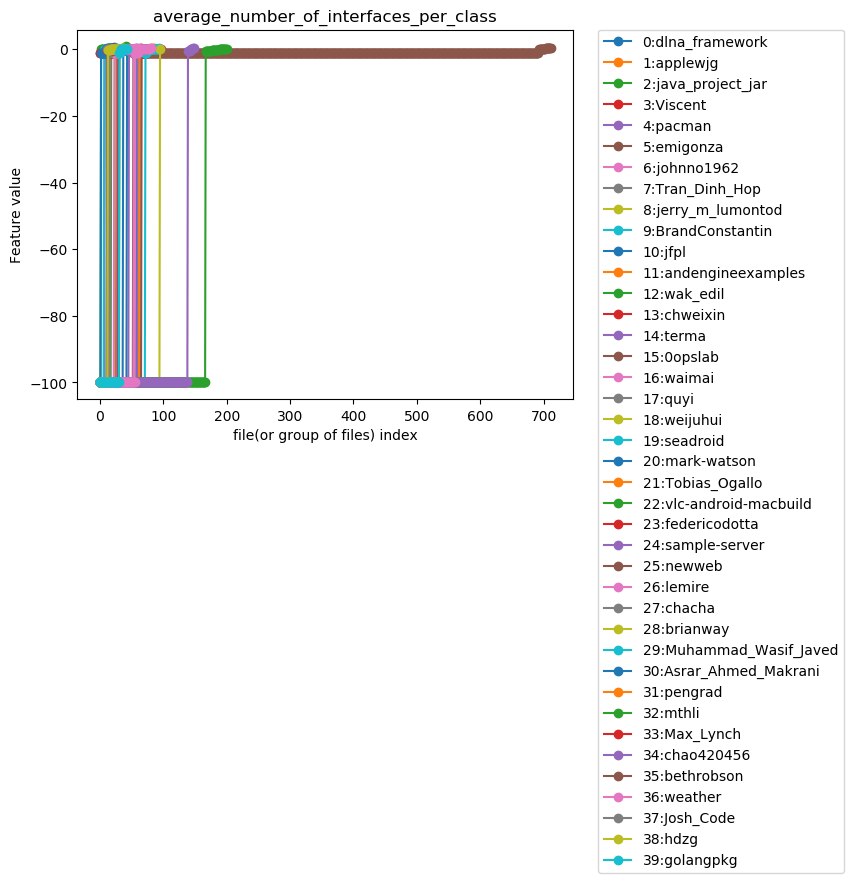
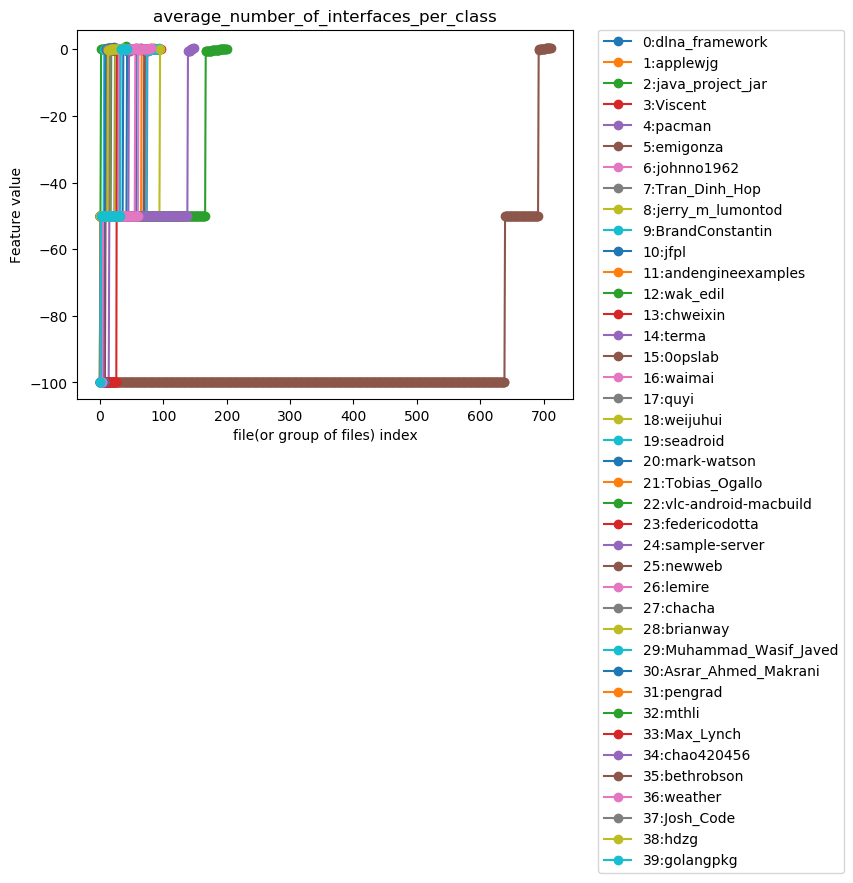
Changed log10(0) = -50, a / 0 = -100. acc is now 38%, worse than was.

Changed region(s): [[0.0914, 0.0306, 0.6401, 0.4587]]

diff --git a/psob_authorship/features/utils.py b/psob_authorship/features/utils.py
@@ -52,8 +52,8 @@ def divide_ratio_with_handling_zero_division(numerator, denominator, logger: log
 
 
 def divide_nonnegative_with_handling_zero_division(numerator, denominator, logger: logging.Logger,
-                                                   log_information, take_log10=True, log_from_zero=-100.0,
-                                                   zero_division_return=float(-1)):
+                                                   log_information, take_log10=True, log_from_zero=-50.0,
+                                                   zero_division_return=-100.0):
     result = divide_with_handling_zero_division(numerator, denominator, logger,
                                                 log_information, (0, float("inf")), zero_division_return)
     if result == zero_division_return:

diff --git a/psob_authorship/experiment/one_split_fit.py b/psob_authorship/experiment/one_split_fit.py
@@ -13,7 +13,7 @@ from psob_authorship.model.Model import Model
 
 CONFIG = {
     'experiment_name': os.path.basename(__file__).split('.')[0],
-    'experiment_notes': "change: added log10 to all metrics that are out of [0; 1], -100 is log10(0)",
+    'experiment_notes': "change: log10(0) = -50, a / 0 = -100",
     'number_of_authors': 40,
     'labels_features_common_name': "../calculated_features/extracted_for_each_file",
     'metrics': [i for i in range(19)],
